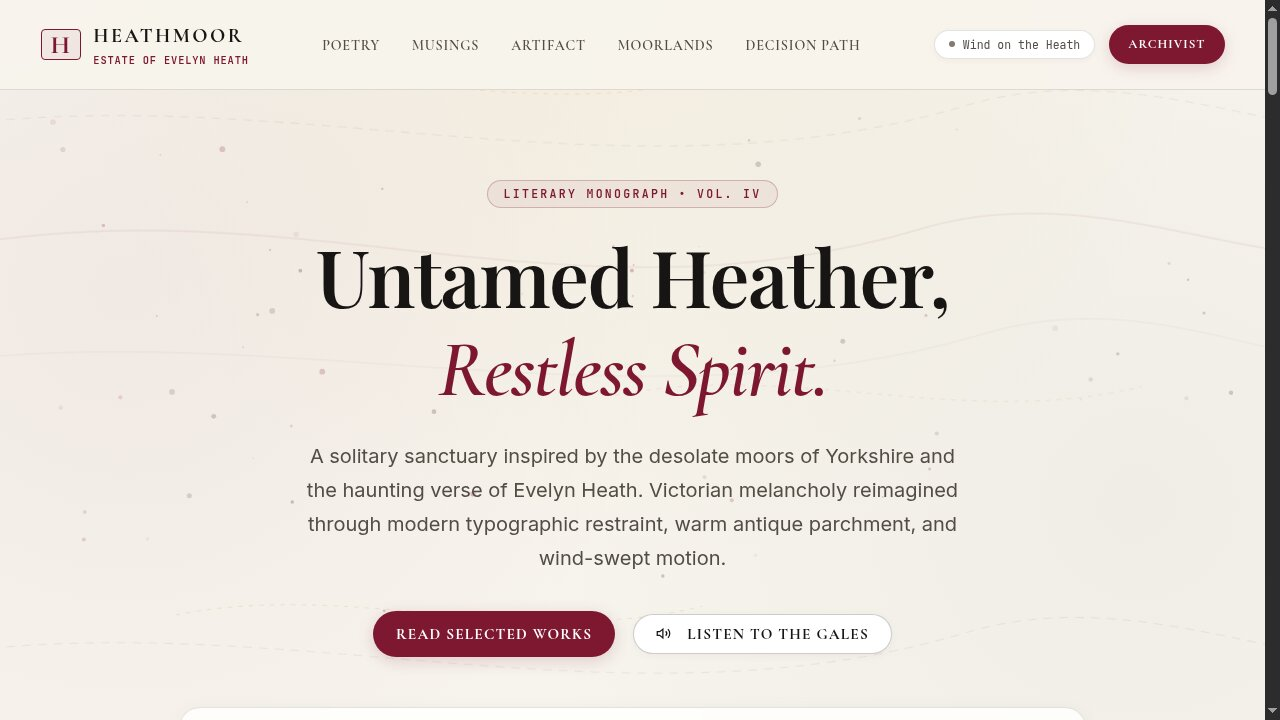
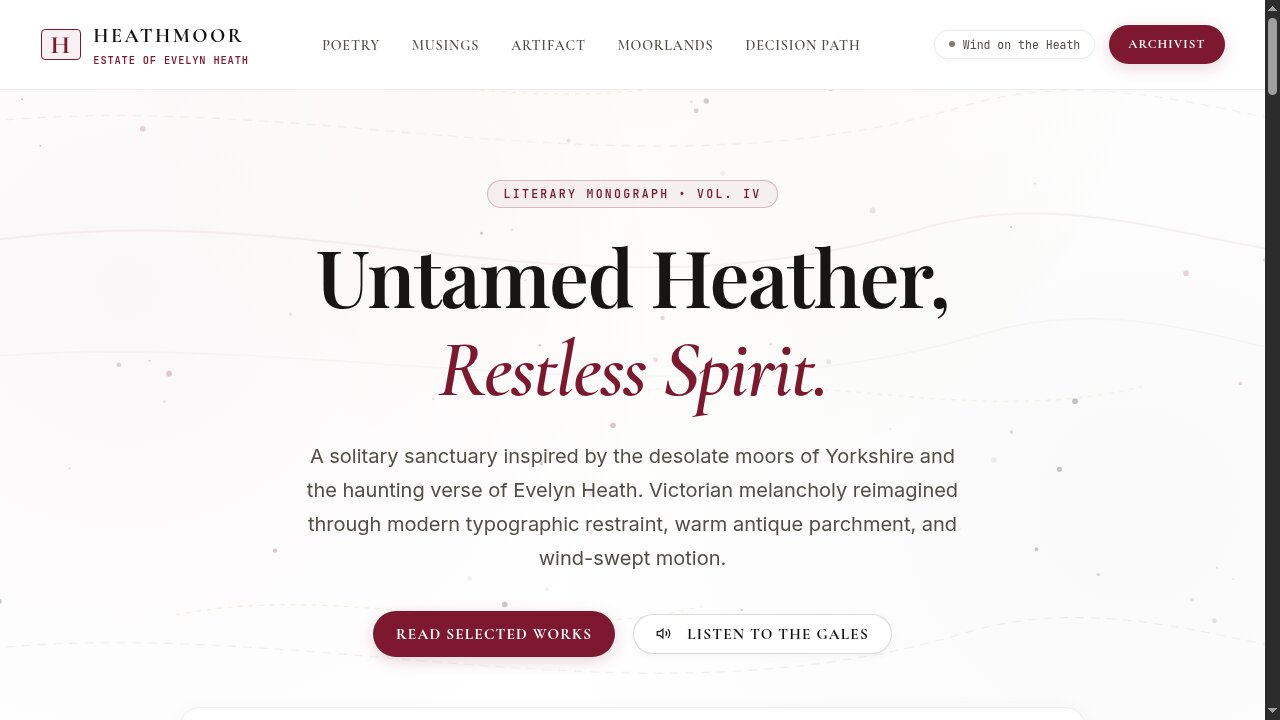
style(heathmoor): switch background to clean crisp white canvas

diff --git a/library/websites/heathmoor/index.html b/library/websites/heathmoor/index.html
@@ -23,16 +23,16 @@
 
   <style>
     :root {
-      /* Warm Archival Parchment Canvas */
-      --bg-base: #f7f4ed;
-      --bg-surface: #efebe2;
-      --bg-surface-soft: #f2eee6;
+      /* Crisp Pure White Canvas & Soft Archival Card Surfaces */
+      --bg-base: #ffffff;
+      --bg-surface: #f9f9fb;
+      --bg-surface-soft: #f4f4f6;
       --bg-card: #ffffff;
-      --bg-card-hover: #fbfaf6;
+      --bg-card-hover: #fafafa;
       
       /* Refined Ink Lines */
-      --border-ink: rgba(24, 22, 20, 0.12);
-      --border-strong: rgba(24, 22, 20, 0.22);
+      --border-ink: rgba(24, 22, 20, 0.08);
+      --border-strong: rgba(24, 22, 20, 0.16);
       --border-focus: rgba(125, 24, 48, 0.45);
       
       /* Typography */
@@ -81,11 +81,11 @@
 
     body {
       min-height: 100vh;
-      background-color: var(--bg-base);
+      background-color: #ffffff;
       background-image: 
-        radial-gradient(circle at 50% 0%, rgba(184, 134, 11, 0.06) 0%, transparent 60%),
-        radial-gradient(circle at 10% 40%, rgba(125, 24, 48, 0.05) 0%, transparent 45%),
-        radial-gradient(circle at 90% 70%, rgba(59, 72, 54, 0.04) 0%, transparent 50%),
+        radial-gradient(circle at 50% 0%, rgba(184, 134, 11, 0.04) 0%, transparent 55%),
+        radial-gradient(circle at 10% 40%, rgba(125, 24, 48, 0.035) 0%, transparent 45%),
+        radial-gradient(circle at 90% 70%, rgba(59, 72, 54, 0.03) 0%, transparent 50%),
         url('assets/wind-mist.svg');
       background-attachment: fixed;
       background-size: cover, cover, cover, 100% auto;
@@ -119,7 +119,7 @@
       right: 0;
       z-index: 100;
       padding: 20px 0;
-      background: rgba(247, 244, 237, 0.92);
+      background: rgba(255, 255, 255, 0.94);
       backdrop-filter: blur(20px);
       -webkit-backdrop-filter: blur(20px);
       border-bottom: 1px solid var(--border-ink);
@@ -1545,21 +1545,21 @@
           <label style="display: block; font-family: var(--font-mono); font-size: 0.75rem; color: var(--text-secondary); margin-bottom: 4px;">
             Scholarly Name / Affiliation
           </label>
-          <input type="text" required placeholder="Professor E. Rochester, Oxford" style="width: 100%; padding: 10px 14px; background: #faf9f5; border: 1px solid var(--border-ink); border-radius: var(--radius-sm); color: var(--text-primary); font-family: var(--font-body); font-size: 0.9rem; outline: none;">
+          <input type="text" required placeholder="Professor E. Rochester, Oxford" style="width: 100%; padding: 10px 14px; background: #ffffff; border: 1px solid var(--border-ink); border-radius: var(--radius-sm); color: var(--text-primary); font-family: var(--font-body); font-size: 0.9rem; outline: none;">
         </div>
 
         <div>
           <label style="display: block; font-family: var(--font-mono); font-size: 0.75rem; color: var(--text-secondary); margin-bottom: 4px;">
             Return Post / Electronic Address
           </label>
-          <input type="email" required placeholder="scholar@university.example" style="width: 100%; padding: 10px 14px; background: #faf9f5; border: 1px solid var(--border-ink); border-radius: var(--radius-sm); color: var(--text-primary); font-family: var(--font-body); font-size: 0.9rem; outline: none;">
+          <input type="email" required placeholder="scholar@university.example" style="width: 100%; padding: 10px 14px; background: #ffffff; border: 1px solid var(--border-ink); border-radius: var(--radius-sm); color: var(--text-primary); font-family: var(--font-body); font-size: 0.9rem; outline: none;">
         </div>
 
         <div>
           <label style="display: block; font-family: var(--font-mono); font-size: 0.75rem; color: var(--text-secondary); margin-bottom: 4px;">
             Manuscript or Stanza Inquiry
           </label>
-          <textarea rows="3" required placeholder="Regarding the unpublished drafts of winter 1848..." style="width: 100%; padding: 10px 14px; background: #faf9f5; border: 1px solid var(--border-ink); border-radius: var(--radius-sm); color: var(--text-primary); font-family: var(--font-body); font-size: 0.9rem; outline: none;"></textarea>
+          <textarea rows="3" required placeholder="Regarding the unpublished drafts of winter 1848..." style="width: 100%; padding: 10px 14px; background: #ffffff; border: 1px solid var(--border-ink); border-radius: var(--radius-sm); color: var(--text-primary); font-family: var(--font-body); font-size: 0.9rem; outline: none;"></textarea>
         </div>
 
         <button type="submit" class="btn btn-crimson" style="width: 100%; margin-top: 8px;">

diff --git a/library/websites/heathmoor/DESIGN.md b/library/websites/heathmoor/DESIGN.md
@@ -16,12 +16,13 @@
   - "The Path Across the Heath" Interactive Reader Wizard: A multi-step decision tree guiding visitors through tailored poetic moods.
 
 ## Colors (Semantic)
-- `bg-base`: `#f7f4ed` (Warm Antique Parchment)
-- `bg-surface`: `#ede8dc` (Aged Vellum Surface)
-- `bg-card`: `#ffffff` (Crisp Hot-Pressed Cotton Rag)
-- `bg-card-hover`: `#fbfaf6`
-- `border-ink`: `rgba(24, 22, 20, 0.12)` (Iron-Gall Hairline)
-- `border-strong`: `rgba(24, 22, 20, 0.22)`
+- `bg-base`: `#ffffff` (Pure White Canvas)
+- `bg-surface`: `#f9f9fb` (Ultra-subtle Archival Surface)
+- `bg-surface-soft`: `#f4f4f6`
+- `bg-card`: `#ffffff` (Pure White Card Surface)
+- `bg-card-hover`: `#fafafa`
+- `border-ink`: `rgba(24, 22, 20, 0.08)` (Subtle Hairline Ink Rule)
+- `border-strong`: `rgba(24, 22, 20, 0.16)`
 - `border-highlight`: `rgba(125, 24, 48, 0.35)` (Heather Crimson Border)
 - `text-primary`: `#181614` (Dense Iron-Gall Ink)
 - `text-secondary`: `#524d45` (Walnut Slate)
